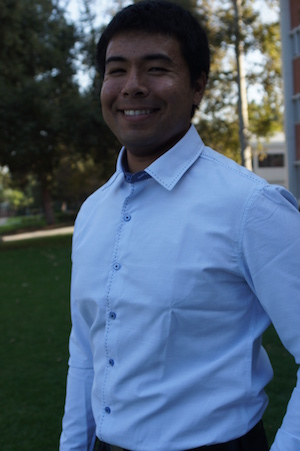
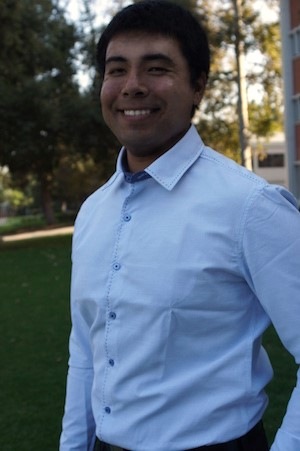
added three new images and updated profile image, updated css to add gradient and fixed images

diff --git a/index.html b/index.html
@@ -1,6 +1,9 @@
 <!DOCTYPE html>
 <html lang="en">
 <head>
+    <!-- Go to https://fontawesome.io/get-started/ to generate your own embed code! -->
+    <link rel="stylesheet" href="https://use.fontawesome.com/releases/v5.0.13/css/all.css" integrity="sha384-DNOHZ68U8hZfKXOrtjWvjxusGo9WQnrNx2sqG0tfsghAvtVlRW3tvkXWZh58N9jp" crossorigin="anonymous">
+
     <meta charset="UTF-8">
     <meta name="viewport" content="width=device-width, initial-scale=1.0">
     <title>Daryl Occ | Resume</title>
@@ -20,7 +23,7 @@
         <img class="profile-img col-narrow" src="images/me.jpg" alt="Daryl Occ">
         <div class="col-wide">
           <h1>Daryl Occ</h1>
-          <h2>Front End Developer | Full Stack Developer</h2>
+          <h2>Front End Developer | Full Stack Developer | Software Developer</h2>
           <p>Add your profile summary here. You can have several paragraphs or add links.</p>
         </div>
       </div>
@@ -50,6 +53,75 @@
                 <li>Lead...</li>
                 <li>Responsible for</li>
             </ul>
+
+            <div class="col-narrow job-description">
+              <h3>Job title</h3>
+              <p class="uppercase">Company Name</p>
+              <p>Date at job</p>
+            </div>
+
+            <!-- Add as many paragraphs as you need. -->
+            <p>Job summary.</p>
+
+            <!-- This list can be deleted if you don't want to use it. -->
+            <p>Optional list:</p>
+            <ul>
+                <li>Created...</li>
+                <li>Lead...</li>
+                <li>Responsible for</li>
+            </ul>
+
+            <div class="col-narrow job-description">
+              <h3>Job title</h3>
+              <p class="uppercase">Company Name</p>
+              <p>Date at job</p>
+            </div>
+
+            <!-- Add as many paragraphs as you need. -->
+            <p>Job summary.</p>
+
+            <!-- This list can be deleted if you don't want to use it. -->
+            <p>Optional list:</p>
+            <ul>
+                <li>Created...</li>
+                <li>Lead...</li>
+                <li>Responsible for</li>
+            </ul>
+
+            <div class="col-narrow job-description">
+              <h3>Job title</h3>
+              <p class="uppercase">Company Name</p>
+              <p>Date at job</p>
+            </div>
+
+            <!-- Add as many paragraphs as you need. -->
+            <p>Job summary.</p>
+
+            <!-- This list can be deleted if you don't want to use it. -->
+            <p>Optional list:</p>
+            <ul>
+                <li>Created...</li>
+                <li>Lead...</li>
+                <li>Responsible for</li>
+            </ul>
+
+            <div class="col-narrow job-description">
+              <h3>Job title</h3>
+              <p class="uppercase">Company Name</p>
+              <p>Date at job</p>
+            </div>
+
+            <!-- Add as many paragraphs as you need. -->
+            <p>Job summary.</p>
+
+            <!-- This list can be deleted if you don't want to use it. -->
+            <p>Optional list:</p>
+            <ul>
+                <li>Created...</li>
+                <li>Lead...</li>
+                <li>Responsible for</li>
+            </ul>
+
             <!-- end of Job Details block. -->
           </div>
         </section>
@@ -61,6 +133,60 @@
             <h2>Education</h2>
 
             <!-- School details: copy this whole block to add more schools. -->
+            <h3>CalPoly Pomona, 2014 - 2017</h3>
+            <p>Bachelors Degree Computer Science</p>
+
+            <!-- Add as many paragraphs as you need. -->
+            <p>Summary.</p>
+
+            <h3>CalPoly Pomona, 2014 - 2017</h3>
+            <p>Bachelors Degree Computer Science</p>
+
+            <!-- Add as many paragraphs as you need. -->
+            <p>Summary.</p>
+
+            <h3>CalPoly Pomona, 2014 - 2017</h3>
+            <p>Bachelors Degree Computer Science</p>
+
+            <!-- Add as many paragraphs as you need. -->
+            <p>Summary.</p>
+
+            <h3>CalPoly Pomona, 2014 - 2017</h3>
+            <p>Bachelors Degree Computer Science</p>
+
+            <!-- Add as many paragraphs as you need. -->
+            <p>Summary.</p>
+
+            <h3>CalPoly Pomona, 2014 - 2017</h3>
+            <p>Bachelors Degree Computer Science</p>
+
+            <!-- Add as many paragraphs as you need. -->
+            <p>Summary.</p>
+
+            <h3>CalPoly Pomona, 2014 - 2017</h3>
+            <p>Bachelors Degree Computer Science</p>
+
+            <!-- Add as many paragraphs as you need. -->
+            <p>Summary.</p>
+
+            <h3>CalPoly Pomona, 2014 - 2017</h3>
+            <p>Bachelors Degree Computer Science</p>
+
+            <!-- Add as many paragraphs as you need. -->
+            <p>Summary.</p>
+
+            <h3>CalPoly Pomona, 2014 - 2017</h3>
+            <p>Bachelors Degree Computer Science</p>
+
+            <!-- Add as many paragraphs as you need. -->
+            <p>Summary.</p>
+
+            <h3>CalPoly Pomona, 2014 - 2017</h3>
+            <p>Bachelors Degree Computer Science</p>
+
+            <!-- Add as many paragraphs as you need. -->
+            <p>Summary.</p>
+
             <h3>CalPoly Pomona, 2014 - 2017</h3>
             <p>Bachelors Degree Computer Science</p>
 
@@ -78,14 +204,19 @@
 
         <!-- Social media and contact links. Add or remove any networks. -->
         <div class="contact-info">
-            <a href="mailto:darylocc@hotmail.com">email@example.com</a>
-            <a href="http://yourwebsite.com" target="_blank">yourwebsite.com</a>
-            <a href="#" target="_blank">Twitter</a>
-            <a href="#" target="_blank">LinkedIn</a>
-            <a href="#" target="_blank">Facebook</a>
+            <a href="mailto:darylocc@hotmail.com"><i aria-hidden class="fas fa-envelope-square icon-font-size" title="Email"></i>
+              <span class="sr-only">Email</span></a>
+            <a href="http://darylocc.com" target="_blank"><i aria-hidden class="fas fa-globe icon-font-size" title="MyWebsite"></i>
+              <span class="sr-only">MyWebsite</span></a>
+            <a href="#" target="_blank"><i aria-hidden class="fab fa-twitter icon-font-size" title="Twitter"></i>
+              <span class="sr-only">Twitter</span></a>
+            <a href="https://www.linkedin.com/in/daryl-occ" target="_blank"><i aria-hidden class="fab fa-linkedin icon-font-size" title="LinkedIn"></i>
+              <span class="sr-only">LinkedIn</span></a>
+            <a href="https://www.facebook.com/darylkevinocc" target="_blank"><i aria-hidden class="fab fa-facebook-square icon-font-size" title="Facebook"></i>
+              <span class="sr-only">Facebook</span></a>
         </div>
 
-        <p>Copyright 2018 by Your Name</p>
+        <p>Copyright 2018 by Daryl Occ</p>
       </div>
     </footer>
 </body>

diff --git a/css/styles.css b/css/styles.css
@@ -70,13 +70,17 @@ a:hover {
 /* Header and Footer
 --------------------------*/
 header, footer {
-  background: #2B2D42;
   color: #8D99AE;
 }
+
 /* header */
 header {
   padding-top: 50px;
   position: relative;
+  background: linear-gradient(rgba(43, 45, 66, 0.8),
+               rgba(43, 45, 66, 0.01)),
+               url(../images/header.jpg) no-repeat fixed;
+  background-size: cover;
 }
 
 .profile-img {
@@ -97,11 +101,19 @@ header h1, header h2 {
 /* footer */
 footer {
   text-align: center;
+  background: linear-gradient(rgba(43, 45, 66, 0.8),
+               rgba(43, 45, 66, 0.5)),
+               url(../images/footer.jpg) no-repeat fixed;
+  background-size: cover;
 }
 
 .contact-info a {
   padding: 10px;
   display: inline-block;
+}
+
+.icon-font-size {
+  font-size: 30px;
 }
 
 /* Navigation
@@ -125,7 +137,10 @@ nav a {
 /* Work Experience
 --------------------------*/
 .work {
-  background: #EDF2F4;
+  background: linear-gradient(rgba(8, 142, 185, 0.8),
+               rgba(8, 142, 185, 0.5)),
+               url(../images/experience.jpg) no-repeat fixed;
+  background-size: cover;
 }
 
 h3 ~ p {
@@ -143,7 +158,10 @@ h3 ~ p {
 /* Education
 --------------------------*/
 .education {
-  background: #8D99AE;
+  background: linear-gradient(rgba(8, 142, 185, 0.8),
+               rgba(8, 142, 185, 0.5)),
+               url(../images/education.jpg) no-repeat fixed;
+  background-size: cover;
 }
 
 p + h3 {
